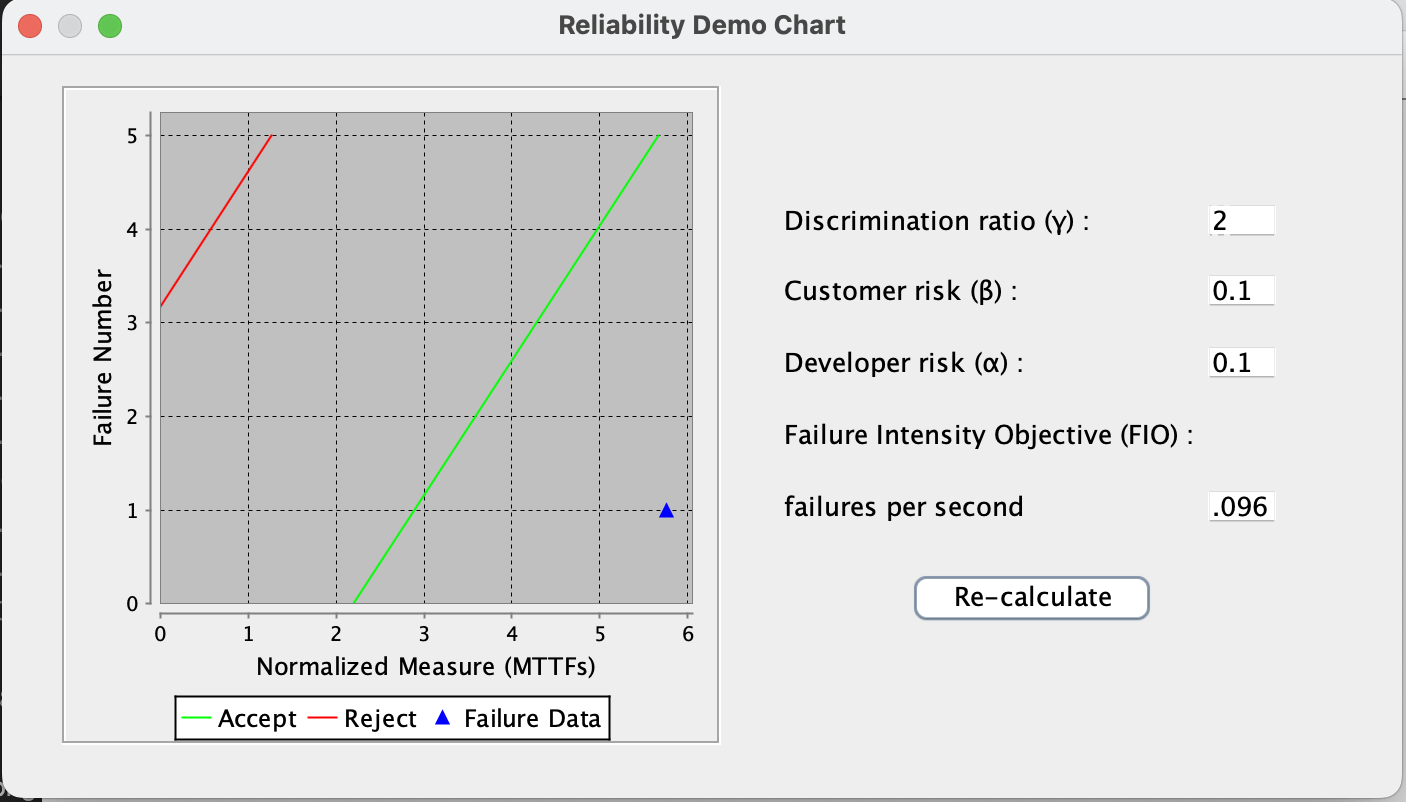
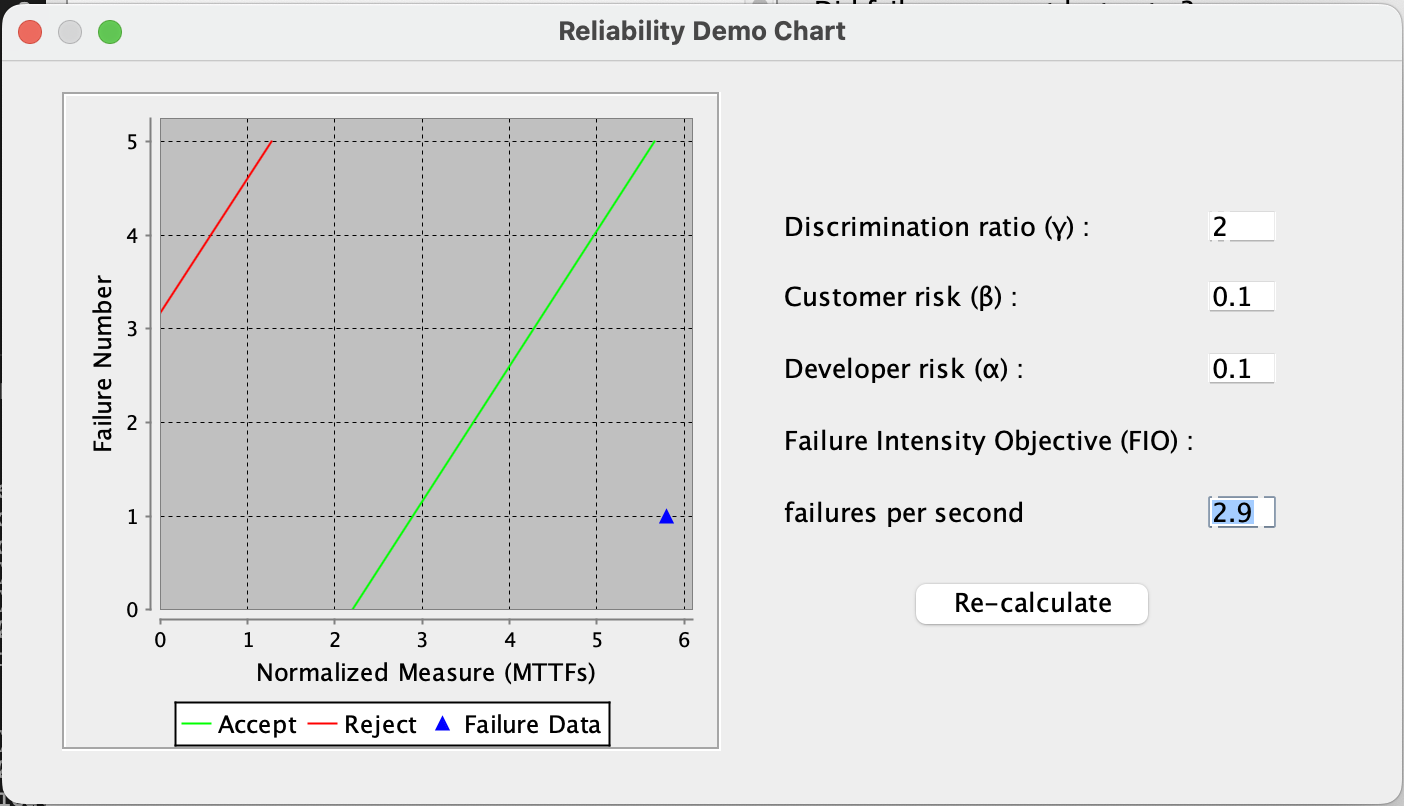
fixed Section 3 to use Fail Report 8

diff --git a/seng438-a5-16.md b/seng438-a5-16.md
@@ -17,7 +17,7 @@ This lab was just opening the dataset provided in the example files and then obs
 
 
 # Assessment Using Reliability Demonstration Chart 
-We used RDC-11 to assess with RDC and we used Failure Report 8<br/>
+We used SRTAT to assess with RDC and we used Failure Report 8<br/>
 
 When using the RDC, playing with different values can changes the results drastically. 
 - Increasing the Customer Risk and/or Developer Risk causes the continue region to shrink which results in less testing being needed to determine if the software should be rejected or accepted. 
@@ -27,7 +27,7 @@ When using the RDC, playing with different values can changes the results drasti
 
 <!-- - here is the time between failures dataset used for RDC assessment -->
 
-We used **CSR1.DAT**
+We used **Failure Report 8.txt**
 
 <figure>
 <img src="./images/RDC_minimum_intensity.png" title="test">
